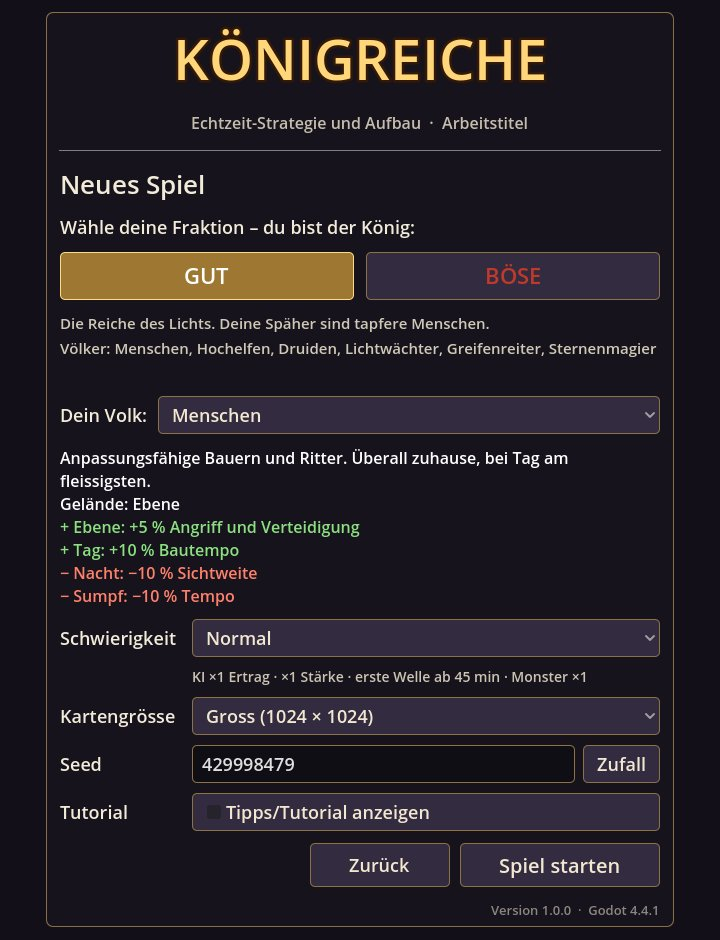
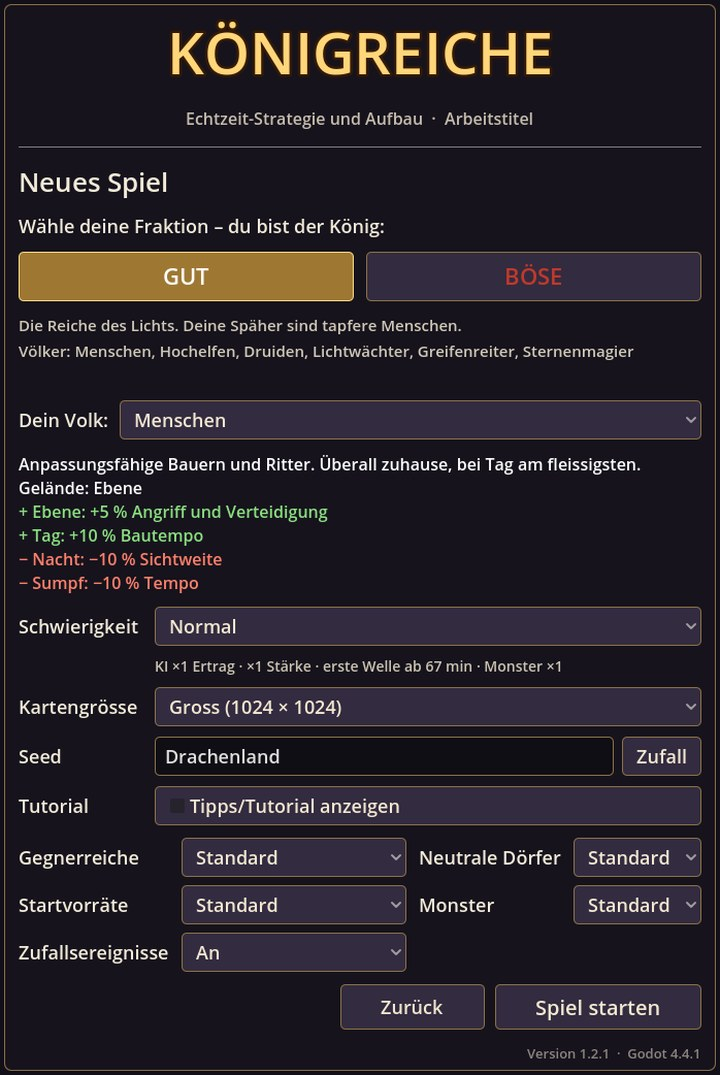
feat: mehr Optionen für neue Partien
Der Dialog „Neues Spiel“ bietet unter Schwierigkeit und Kartengrösse
Gegnerreiche (Standard/1/2/3/so viele wie möglich), neutrale Dörfer
(wenige/Standard/viele), Startvorräte (wenig/Standard/viel), Monster
(aus/wenige/Standard/viele) und Zufallsereignisse an/aus. Die Optionen
stehen in game_config.json → new_game und im Spielstand (auch im Kopf,
damit beim Laden dieselbe Welt entsteht); „Standard“ = bisheriges
Verhalten und dieselbe Welt. Die Menütafel lässt sich bei grosser
Oberfläche rollen.

Claude-Session: https://claude.ai/code/session_01CYWCXj14vR7V4diVzGAVyt

diff --git a/docs/spielanleitung.md b/docs/spielanleitung.md
@@ -63,6 +63,18 @@ Hauptmenü → **Neues Spiel**:
   gibt es mehr Dörfer, Monsterlager und Platz.
 - **Seed** – ein beliebiger Text oder eine Zahl. Gleicher Seed = gleiche Welt. „Zufall“ würfelt einen neuen.
 - **Tipps/Tutorial anzeigen** – startet das Tutorial in dieser Partie.
+- **Weitere Optionen** – jeweils mit „Standard“ (so wie ohne Option):
+  - **Gegnerreiche**: Standard (nach Schwierigkeit und Karte), 1, 2, 3 oder so viele wie möglich (klein höchstens 3,
+    mittel 4, gross 5).
+  - **Neutrale Dörfer**: wenige (halb so viele), Standard, viele (anderthalbmal so viele).
+  - **Startvorräte**: wenig (halb so viel), Standard, viel (doppelt) – für dich und die Gegner.
+  - **Monster**: aus (keine Monster, Streifzüge und Monsterwellen), wenige (jedes zweite Lager), Standard, viele
+    (mehr Monster je Lager).
+  - **Zufallsereignisse**: an oder aus.
+
+  Die Optionen stehen im Spielstand und gelten nach dem Laden weiter. Mit allen Optionen auf „Standard“ ergibt
+  derselbe Seed dieselbe Welt wie bisher; mehr Gegnerreiche oder andere Dorfzahlen verändern die Welt. Das Tutorial
+  nutzt immer seine festen Werte.
 
 **Tutorial:** Wer das Spiel zum ersten Mal spielt, wählt im Hauptmenü **Tutorial**. Es startet eine feste,
 freundliche Partie (Seed „Lernreich“, kleine Karte, Leicht, ein Gegnerreich) und führt in **37 Schritten** durch

diff --git a/docs/architektur.md b/docs/architektur.md
@@ -95,7 +95,7 @@ tests/                   Skriptprüfung, Rauchtests, Balancing-Läufe, Bildschir
 |---|---|
 | `DataDB` | lädt alle JSON-Dateien aus `data/` (in fester Reihenfolge, `reload()`), ergänzt Standardwerte, prüft Verweise (z. B. Völker → Milizen), Hilfsfunktionen (`get_unit_for_tier`, `describe_requirement`, `cost_to_text`) und einen Fingerabdruck der Daten für Spielstände |
 | `Settings` | Einstellungen (`user://settings.cfg`): Grafik, Ton, Steuerung, Oberfläche, Spiel (siehe [Oberfläche](#oberfläche)) |
-| `GameSession` | Parameter der Partie: Fraktion, Volk, Schwierigkeit, Karte, Seed, Tutorial, vorgemerkter Spielstand |
+| `GameSession` | Parameter der Partie: Fraktion, Volk, Schwierigkeit, Karte, Seed, Optionen des neuen Spiels (`options`: Gegnerreiche, Dörfer, Startvorräte, Monster, Ereignisse – gespeichert im Spielstand und im Kopf, damit der Weltgenerator beim Laden dieselbe Welt erzeugt), Tutorial, vorgemerkter Spielstand |
 | `GameClock` | einzige Zeitquelle der Spielwelt: Pause, Tempo, Tag und Uhrzeit, `frame_delta`, Signal `sim_tick` (10 Schritte pro Spielsekunde) |
 | `Assets` | lädt Texturen über ihren Pfad mit Zwischenspeicher (auch Fehltreffer); erzeugt Platzhalter-Figuren und Abzeichen |
 | `Notify` | Meldungen (Info, Warnung, Gefahr, gut) mit Ort bzw. Fensterverweis, Protokoll (höchstens 300) |

diff --git a/docs/daten-anpassen.md b/docs/daten-anpassen.md
@@ -79,11 +79,13 @@ Code. Beim nächsten Start (F5 im Editor) gilt der neue Wert.
 | `time.start_hour` | Uhrzeit beim Start (8) |
 | `time.speed_steps` | Tempostufen (`[0.5, 1.0, 2.0, 3.0]`) |
 | `save.*` | Autospeicher-Plätze und Mindestabstand |
+| `new_game.*` | Optionen im Dialog „Neues Spiel“ je mit `id`, `name` und Wert: `ai_kingdoms` (`count`), `villages`, `resources`, `monsters` (`factor`), `events` (`standard` = an, `off`). Der Eintrag `standard` entspricht dem Verhalten ohne Option |
 
 ### worldgen.json
 
 Rauschebenen (`layers`: Höhe, Feuchte, Hitze, Vulkan), Grenzgebirge am Kartenrand (`border`), Startplatz (`start`),
-Plätze der KI-Reiche (`kingdom_sites`) und **Dörfer** (`villages`: `count_by_size` = Anzahl je Kartengrösse,
+Plätze der KI-Reiche (`kingdom_sites`; `max_by_size` = höchstens so viele, wenn beim neuen Spiel mehr Gegnerreiche
+gewählt sind) und **Dörfer** (`villages`: `count_by_size` = Anzahl je Kartengrösse,
 `min_dist_start` = Abstand zum Start, `size` = Hütten je Dorf). Änderungen hier ergeben bei gleichem Seed eine andere
 Welt (siehe [Spielstände](#spielstände-und-datenänderungen)).
 

diff --git a/docs/testen.md b/docs/testen.md
@@ -89,6 +89,9 @@ Prüfpunkt. Geprüft werden unter anderem:
 - **Einstellungen** (`smoke_settings.gd`, in `smoke_features.tscn`, eigene Datei): fünf Reiter, neue Werte wirken
   sofort, Speichern/Laden, alte `settings.cfg` ohne neue Schlüssel, „Standard“, Fenster passt bei UI-Grösse 80–150 %,
   Krieg ohne Rückfrage.
+- **Neues Spiel** (`smoke_new_game.gd`, letztes Modul in `smoke_features.tscn`): Standard ergibt dieselbe Welt, Dörfer
+  und Gegnerplätze nach Option; eine Partie mit 1 Gegner, wenigen Dörfern, vielen Vorräten, ohne Monster und
+  Ereignisse; Speichern/Laden behält die Optionen.
 - **Spione** (`smoke_spies.gd`, eigene Szene `smoke_spies.tscn`): zu Spielbeginn hat kein Reich Spione; ein im
   Spionagefenster beschworener Spion existiert genau einmal (Einheit, Datensatz, Liste, Fenster), auch mit Auftrag
   und nach Speichern und Laden. Spionagebericht: ohne Kundschaft „unbekannt“, ein Spion der höchsten Stufe liefert

diff --git a/CHANGELOG.md b/CHANGELOG.md
@@ -18,6 +18,13 @@ Alle wichtigen Änderungen an **Königreiche**, neueste zuerst. Die Versionsnumm
 - Mehr Einstellungen, geordnet nach Reitern (Grafik · Ton · Steuerung · Oberfläche · Spiel): VSync und Bildrate,
   Zoom- und Scrolltempo am Bildschirmrand, Lebensbalken, Meldungsdauer, Minikarten-Grösse, Starttempo, Rückfrage vor
   einer Kriegserklärung und Tooltip-Verzögerung. Ältere Einstellungsdateien laden mit den Standardwerten.
+- Neues Spiel: Anzahl Gegner und Dörfer, Startvorräte, Monster und Zufallsereignisse lassen sich einstellen; die
+  Optionen stehen im Spielstand. Mit allen Werten auf „Standard“ bleibt alles wie bisher.
+
+### Behoben
+
+- Der Dialog „Neues Spiel“ lässt sich bei grosser Oberfläche (150 %) rollen, statt oben und unten abgeschnitten zu
+  werden.
 
 ## 1.2.1 – 2026-10-17
 
